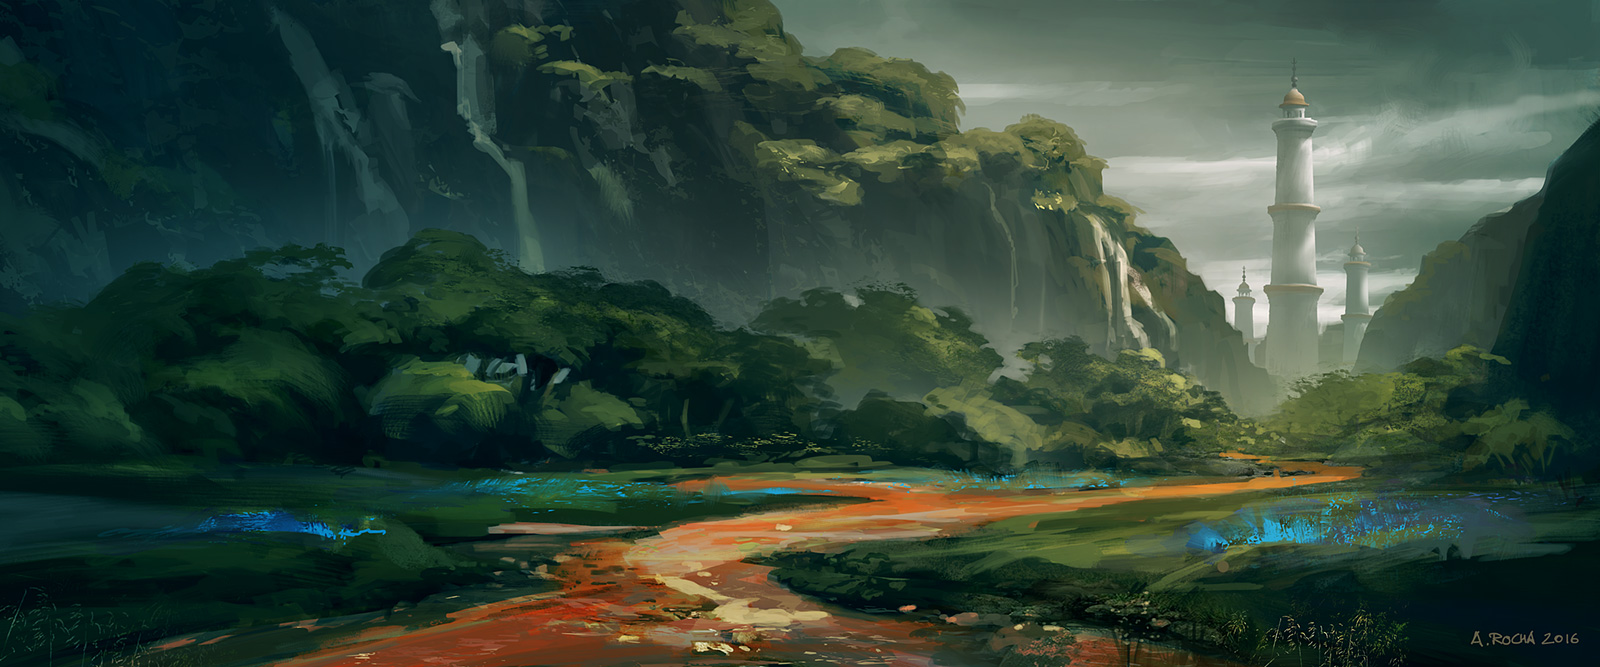
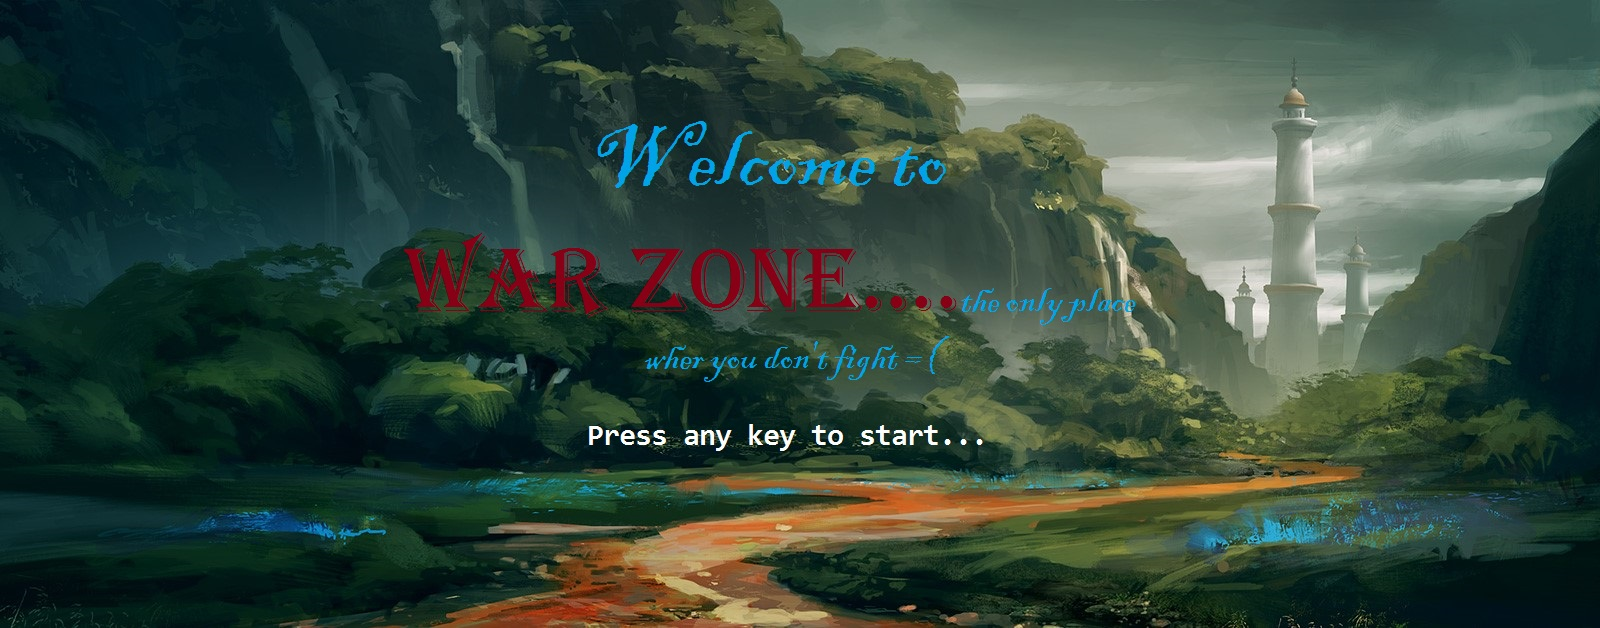
Added MiniMap and Starting Screen. Needs testing!

diff --git a/src/Views/ViewPort.java b/src/Views/ViewPort.java
@@ -27,16 +27,20 @@ import javax.swing.*;
 import java.awt.*;
 import java.awt.event.KeyEvent;
 import java.awt.event.KeyListener;
+import java.awt.image.BufferedImage;
+import java.io.IOException;
 import java.util.*;
 
 public class ViewPort extends JPanel{
-    private PixelPoint origin;
-    private GameMap map;
+    public static PixelPoint origin;
+    private static GameMap map;
     private int mapPixelWidth, mapPixelHeight;
     private static ViewPort instance;
-    private CyclingState state;
+    private static CyclingState state;
     public static Vec2i scroller = new Vec2i();
     public static final int VIEWPORT_WIDTH = PixelMap.SCREEN_WIDTH, VIEWPORT_HEIGHT = (int)(0.75*(double)PixelMap.SCREEN_HEIGHT);
+    public static BufferedImage viewportPic = null;
+    private Graphics graphics;
 
     private ViewPort(PixelPoint origin, CyclingState state){
         setLayout(null);
@@ -79,7 +83,7 @@ public class ViewPort extends JPanel{
 
 
     //Drawing Tiles
-    public void paintLayerOne(Graphics g){
+    public static void paintLayerOne(Graphics g){
         for(Iterator iter = map.getIterator(); iter.hasNext();){
             Tile tile = (Tile) iter.next();
             TileDrawer.drawTile(g, tile);
@@ -87,7 +91,7 @@ public class ViewPort extends JPanel{
         }
     }
 
-    public void paintLayerTwo(Graphics g){
+    public static void paintLayerTwo(Graphics g){
         FogOfWar fogOfWar = state.inTurn.getFogOfWar();
         for(Iterator iter = map.getIterator(); iter.hasNext();){
             Tile tile = (Tile) iter.next();
@@ -116,7 +120,7 @@ public class ViewPort extends JPanel{
         }
     }
 
-    public void paintLayerThree(Graphics g){
+    public static void paintLayerThree(Graphics g){
         TileDrawer.drawMarkers(g, state);
     }
 
@@ -124,7 +128,7 @@ public class ViewPort extends JPanel{
 
     }
 
-    public void paintViewPort(Graphics g){
+    public static void paintViewPort(Graphics g){
         paintLayerOne(g);
         paintLayerTwo(g);
         paintLayerThree(g);
@@ -133,7 +137,20 @@ public class ViewPort extends JPanel{
     @Override
     public void paint(Graphics g) {
         super.paintComponent(g);
+        graphics = g;
         g.translate(-scroller.x, -scroller.y);
         paintViewPort(g);
+    }
+
+    public static BufferedImage componentToImage(Component component, Rectangle region) throws IOException {
+        BufferedImage img = new BufferedImage(component.getWidth(), component.getHeight(), BufferedImage.TYPE_INT_ARGB_PRE);
+        Graphics g = img.getGraphics();
+        g.setColor(component.getForeground());
+        g.setFont(component.getFont());
+        component.paintAll(g);
+        if (region == null) {
+            region = new Rectangle(0, 0, img.getWidth(), img.getHeight());
+        }
+        return img.getSubimage(region.x, region.y, region.width, region.height);
     }
 }

diff --git a/src/Game/Control/InGameController.java b/src/Game/Control/InGameController.java
@@ -14,11 +14,18 @@ import GameMap.*;
 import Player.EntityManager;
 import Utility.Direction;
 import Views.InGameFrame;
+
+import java.awt.*;
 import java.awt.event.KeyEvent;
 import java.awt.event.KeyListener;
+import java.awt.image.BufferedImage;
 import java.util.*;
+import java.util.List;
 
 import Entity.*;
+import Views.MiniMapSection;
+import Views.PixelMaps.PixelMap;
+import Views.StartingFrame;
 import Views.ViewPort;
 import com.sun.xml.internal.bind.v2.TODO;
 
@@ -27,6 +34,7 @@ public class InGameController extends GameLibrary implements KeyListener {
 
     private Game game;
     private InGameFrame frame;
+    private StartingFrame startingFrame;
     private CyclingState state;
     private Set<Integer> keysPressed;
     private KeyConfiguration keyConfiguration;
@@ -41,8 +49,14 @@ public class InGameController extends GameLibrary implements KeyListener {
         map = GameMap.getInstance();
     }
 
+    public void setStartingFrame(StartingFrame startingFrame) {
+        this.startingFrame = startingFrame;
+    }
+
     @Override
     public void keyPressed(KeyEvent e) {
+        startingFrame.setVisible(false);
+        frame.setVisible(true);
         moveViewPort(e);
         int code = e.getKeyCode();
         keysPressed.add(code);
@@ -54,6 +68,17 @@ public class InGameController extends GameLibrary implements KeyListener {
         moveCursor(code);
         frame.getMapView().refreshCyclinigSection();
         frame.getMapView().refreshEntityStateSection();
+        frame.getMapView().refreshMinimapSection();
+
+        try {
+            BufferedImage img = ViewPort.componentToImage(frame.getMapView().getComponent(0), new Rectangle(0, 0, ViewPort.VIEWPORT_WIDTH, ViewPort.VIEWPORT_HEIGHT));
+            ViewPort.viewportPic = img;
+//            System.out.println(img);
+        }
+        catch(Exception ex){
+            ex.printStackTrace();
+            System.out.println("LOL");
+        }
 
     }
 
@@ -121,7 +146,7 @@ public class InGameController extends GameLibrary implements KeyListener {
         }
         game.changeTurn();
         state.inTurn = game.getActivePlayer();
-
+        MiniMapSection.updateMiniMap();
     }
 
     public void centerSelectedEntity(){

diff --git a/src/Views/MiniMapSection.java b/src/Views/MiniMapSection.java
@@ -6,15 +6,19 @@ package Views;
 ---------------------------------------------------------------------------------------*/
 
 import Game.CyclingState;
+import GameMap.GameMap;
 import Utility.GraphicsFactory;
 import Views.PixelMaps.PixelMap;
+import Views.PixelMaps.PixelPoint;
 
 import javax.swing.*;
 import java.awt.*;
+import java.awt.image.BufferedImage;
 
 public class MiniMapSection extends JPanel{
     GraphicsFactory graphicsFactory;
     CyclingState cyclingState;
+    public static BufferedImage map = null;
 
     public MiniMapSection(){
         setLayout(null);
@@ -26,6 +30,22 @@ public class MiniMapSection extends JPanel{
     @Override
     public void paint(Graphics g) {
         super.paintComponent(g);
+        if(map == null) updateMiniMap();
         g.drawRect(5, 5, getWidth()-10, getHeight()-10);
+        g.drawImage(map, 5, 5, getWidth()-10, getHeight()-10, null);
+        g.setColor(new Color(0,255,255));
+        int width = (6*PixelMap.TILE_WIDTH*GameMap.getInstance().getSize().x)/ViewPort.VIEWPORT_WIDTH, height = (PixelMap.TILE_HEIGHT*GameMap.getInstance().getSize().y)/ViewPort.VIEWPORT_HEIGHT;
+        width = getWidth()/width; height = getHeight()/height; height -= (int)(height/3.5);
+        System.out.println("width:"+width+"\nheight:"+height);
+        PixelPoint origin = new PixelPoint(0,0);
+        origin.x = (int)((double)getWidth() * (double)ViewPort.scroller.x/((double)(6*PixelMap.TILE_WIDTH*GameMap.getInstance().getSize().x)));
+        origin.y = (int)((double)getHeight()* (double)ViewPort.scroller.y/((1.05)*(double)PixelMap.TILE_HEIGHT*GameMap.getInstance().getSize().y));
+        g.drawRect(origin.x,origin.y,width,height);
+    }
+
+    public static void updateMiniMap(){
+        map = new BufferedImage((int)(6*PixelMap.TILE_WIDTH*GameMap.getInstance().getSize().x), (int)((1.05)*PixelMap.TILE_HEIGHT*GameMap.getInstance().getSize().y), BufferedImage.TYPE_INT_ARGB_PRE);
+        Graphics test = map.getGraphics();
+        ViewPort.paintViewPort(test);
     }
 }

diff --git a/src/Main.java b/src/Main.java
@@ -30,13 +30,19 @@ public class Main {
 
         game.setState(state);
 
-
         InGameFrame frame = new InGameFrame();
         frame.addView(new MapView("Map Overview", state));
         frame.addView(new UnitView("Unit Overview", state));
         frame.addView(new StructureView("Structure Overview", state));
         frame.addView(new TechTreeView("Tech Tree", state));
 
-        frame.addKeyListener(new InGameController(frame, state));
+        InGameController controller = new InGameController(frame, state);
+        frame.addKeyListener(controller);
+
+        StartingFrame start = new StartingFrame();
+        start.addKeyListener(controller);
+        start.setVisible(true);
+        controller.setStartingFrame(start);
+
     }
 }

diff --git a/src/Views/StartingFrame.java b/src/Views/StartingFrame.java
@@ -20,6 +20,7 @@ public class StartingFrame extends JFrame{
     class Background extends JPanel{
         public Background(){
             setBounds(0,0, PixelMap.SCREEN_WIDTH, PixelMap.SCREEN_HEIGHT);
+            setVisible(true);
         }
 
         @Override
@@ -27,6 +28,7 @@ public class StartingFrame extends JFrame{
             super.paintComponent(g);
             BufferedImage img = GraphicsFactory.getInstance().getGraphics(GraphicsFactory.BACKGROUND_SRC);
             g.drawImage(img, 0, 0, PixelMap.SCREEN_WIDTH, PixelMap.SCREEN_HEIGHT, null);
+
         }
     }
 

diff --git a/src/Views/MapView.java b/src/Views/MapView.java
@@ -11,6 +11,7 @@ import Game.CyclingState;
 import Views.PixelMaps.PixelMap;
 import Views.PixelMaps.PixelPoint;
 import java.awt.*;
+import java.awt.image.BufferedImage;
 
 public class MapView extends View{
 
@@ -31,6 +32,7 @@ public class MapView extends View{
 
         cyclingSection.setCyclingState(state);
         entityState.setCyclingState(state);
+
 
         //Adding inner components
         add(viewPort);
